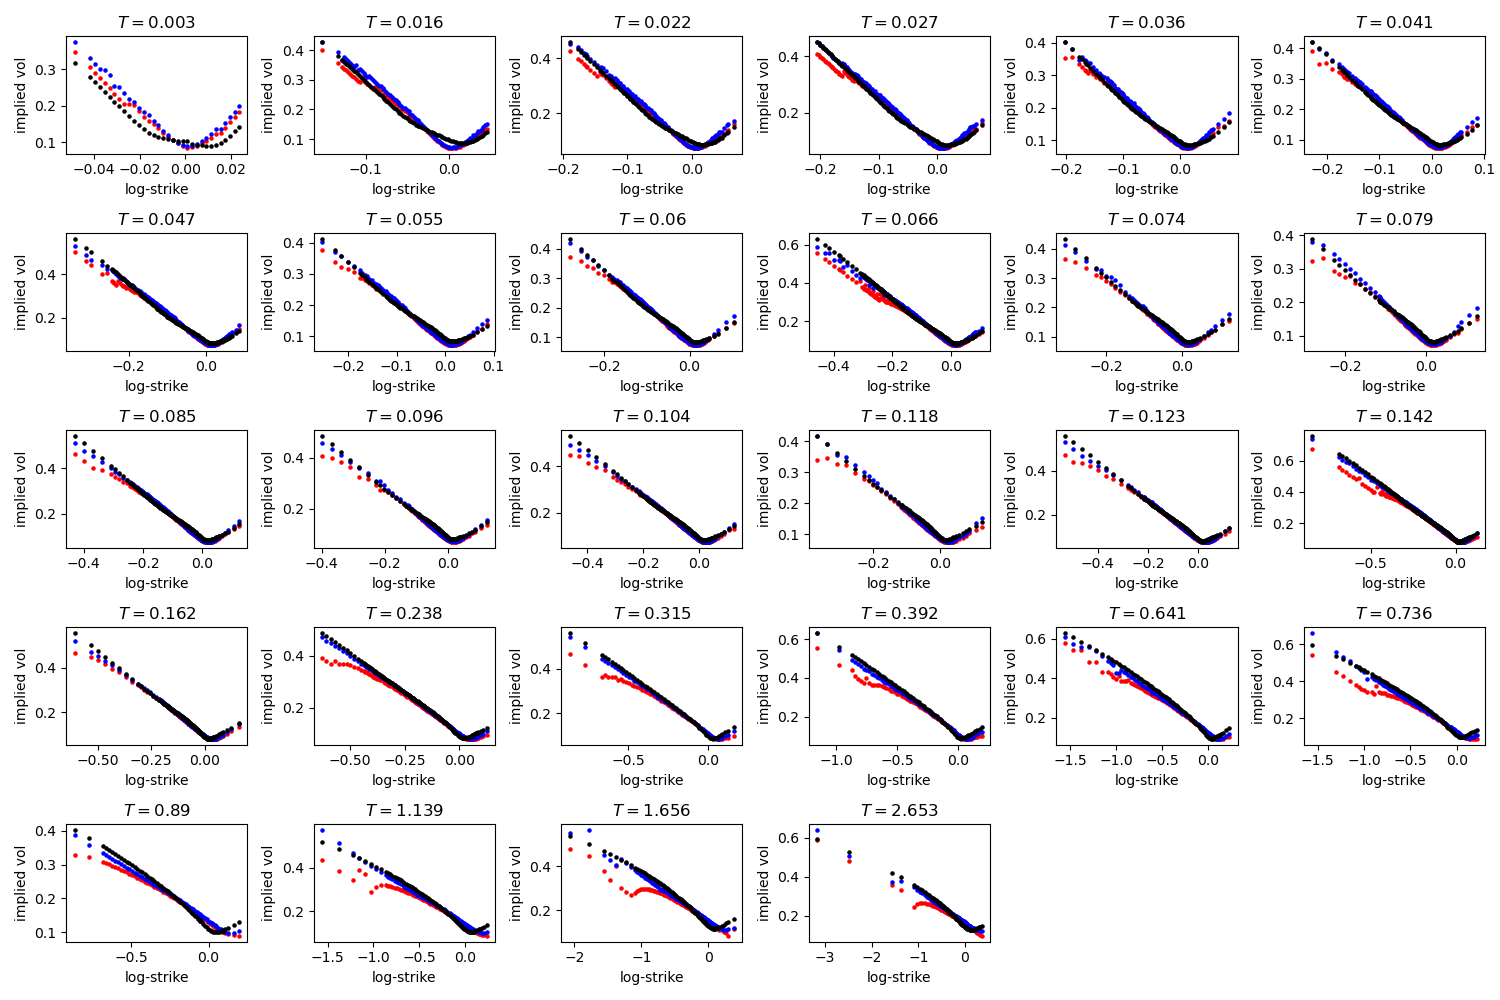
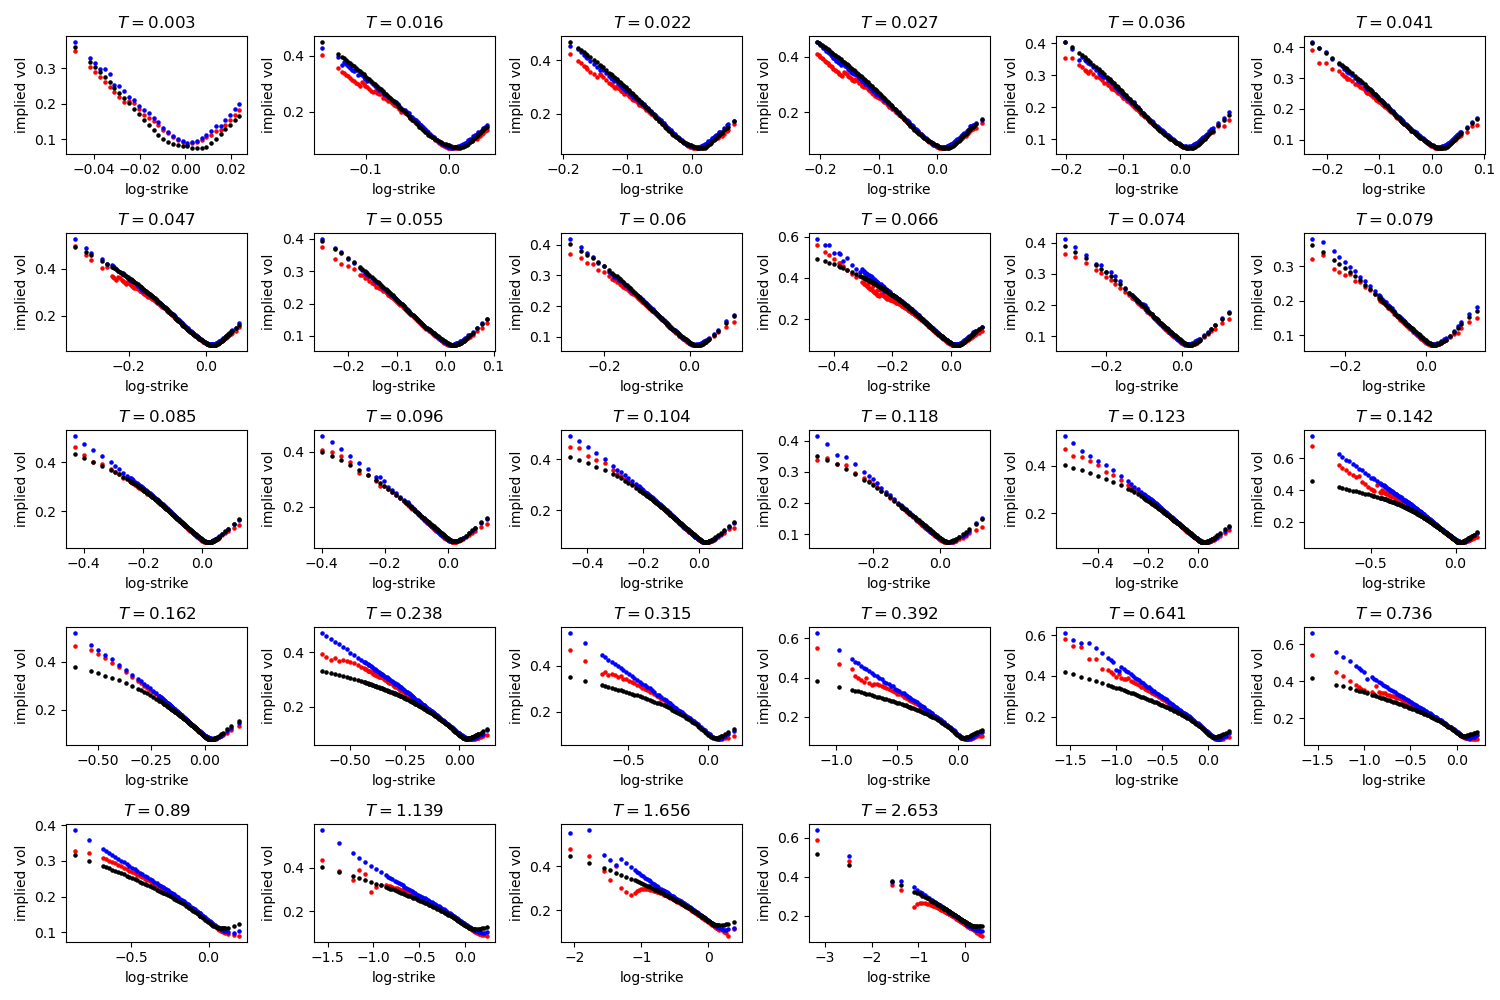
added cmt/ref

diff --git a/python-volcal/params.py b/python-volcal/params.py
@@ -1,4 +1,5 @@
 #### Heston ####################################################################
+# Ref: Bakshi, Cao & Chen (1997)
 paramsBCC = {"meanRevRate": 1.15, "correlation": -0.64, "volOfVol": 0.39, "meanVar": 0.04, "currentVar": 0.04}
 paramsBCCkey = list(paramsBCC.keys())
 paramsBCCval = list(paramsBCC.values())
@@ -11,14 +12,26 @@ paramsMERval = list(paramsMER.values())
 paramsMERbnd = ((0.01,1), (0,5), (-0.9,0.9), (0.01,2))
 # paramsMERbnd = ((0,1), (0,10), (-1,1), (0,10))
 #### VGamma ####################################################################
-paramsVG = {"vol": 0.095, "drift": -0.096, "timeChgVar": 0.288}
+# Ref: Madan, The Variance Gamma Process and Option Pricing
+# paramsVG = {"vol": 0.12, "drift": -0.14, "timeChgVar": 0.17}
+paramsVG = {"vol": 0.095, "drift": -0.096, "timeChgVar": 0.288} # converged
 paramsVGkey = list(paramsVG.keys())
 paramsVGval = list(paramsVG.values())
 paramsVGbnd = ((0.01,1), (-1,1), (0.01,1))
 #### SVJ #######################################################################
-paramsSVJ = {"meanRevRate": 0.704, "correlation": -0.530, "volOfVol": 0.872, "meanVar": 0.061, "currentVar": 0.01, "jumpInt": 0.006, "jumpMean": -0.900, "jumpSd": 0.821}
+# Ref: Gatheral, Volatility Workshop VW2.pdf
+# Empirical fits:
+#         lda  eta  rho   vbar  ldaJ alp   del
+# BCC SVJ 2.03 0.38 -0.57 0.04  0.59 -0.05 0.07
+# M   SVJ 1.0  0.8  -0.7  0.04  0.5  -0.15 0
+# DPS SVJ 3.99 0.27 -0.79 0.014 0.11 -0.12 0.15
+# JG  SVJ 0.54 0.3  -0.7  0.044 0.13 -0.12 0.10
+# paramsSVJ = {"meanRevRate": 0.704, "correlation": -0.530, "volOfVol": 0.872, "meanVar": 0.061, "currentVar": 0.01, "jumpInt": 0.006, "jumpMean": -0.900, "jumpSd": 0.821}
+# paramsSVJ = {"meanRevRate": 0.54, "correlation": -0.70, "volOfVol": 0.30, "meanVar": 0.04, "currentVar": 0.04, "jumpInt": 0.10, "jumpMean": -0.10, "jumpSd": 0.10}
+paramsSVJ = {'meanRevRate': 0.467, 'correlation': -0.587, 'volOfVol': 0.478, 'meanVar': 0.077, 'currentVar': 0.006, 'jumpInt': 0.137, 'jumpMean': -0.094, 'jumpSd': 0.158} # converged
 paramsSVJkey = list(paramsSVJ.keys())
 paramsSVJval = list(paramsSVJ.values())
-paramsSVJbnd = ((0.01,10), (-0.99,0), (0.01,1), (0.01,1), (0.01,1), (0,2), (-0.9,0.5), (0.01,2))
+# paramsSVJbnd = ((0.01,10), (-0.99,0), (0.01,1), (0.01,1), (0.01,1), (0,2), (-0.9,0.5), (0.01,2))
+paramsSVJbnd = ((0.01,5), (-0.99,0), (0.1,1), (0.005,1), (0.005,1), (0,2), (-0.5,0.5), (0.01,0.5))
 #### rHeston: Poor Man's Approx ################################################
 #### rHeston: Pade Approx ######################################################

diff --git a/python-volcal/pricer.py b/python-volcal/pricer.py
@@ -43,6 +43,7 @@ def BlackScholesImpliedVol(spotPrice, strike, maturity, riskFreeRate, priceMkt, 
             impVol1 += (price>=priceMkt)*(impVol-impVol1)
         return impVol
     elif method == "Chebychev": # Chebychev IV-interpolation
+        # Ref: Glau, The Chebyshev Method for the Implied Volatility
         # TO-DO
         pass
 
@@ -191,6 +192,8 @@ def MertonJumpCharFunc(vol, jumpInt, jumpMean, jumpSd, riskFreeRate=0):
 
 def VarianceGammaCharFunc(vol, drift, timeChgVar, riskFreeRate=0):
     # Characteristic function for Variance-Gamma model
+    # Xt = drift*gamma(t;1,timeChgVar) + vol*W(gamma(t;1,timeChgVar))
+    # Ref: Madan, The Variance Gamma Process and Option Pricing
     def charFunc(u, maturity):
         return np.exp(1j*u*(riskFreeRate+1/timeChgVar*np.log(1-(drift+vol**2/2)*timeChgVar))*maturity)*(1-1j*u*drift*timeChgVar+u**2*vol**2*timeChgVar/2)**(-maturity/timeChgVar)
     return charFunc
@@ -209,6 +212,11 @@ def SVJCharFunc(meanRevRate, correlation, volOfVol, meanVar, currentVar, jumpInt
         C = meanRevRate*(rm*maturity-2/volOfVol**2*np.log((1-g*np.exp(-d*maturity))/(1-g)))
         return np.exp(1j*u*riskFreeRate*maturity+C*meanVar+D*currentVar-1j*u*jumpInt*maturity*(np.exp(jumpMean+jumpSd**2/2)-1)+jumpInt*maturity*(np.exp(1j*u*jumpMean-u**2*jumpSd**2/2)-1))
     return charFunc
+
+def rHestonPoorMansCharFunc(meanRevRate, correlation, volOfVol, meanVar, currentVar, riskFreeRate=0):
+    # Characteristic function for rHeston model (poor man's crude approx)
+    # Ref: Gatheral, Roughening Heston
+    pass
 
 #### Calibration ###############################################################
 
@@ -247,8 +255,8 @@ def CalibrateModelToImpliedVol(logStrike, maturity, optionImpVol, model, params0
         impVolFunc = CharFuncImpliedVol(charFunc, optionType=optionType, FFT=True, formulaType=formulaType, **kwargs)
         impVol = np.concatenate([impVolFunc(logStrike[maturity==T], T) for T in np.unique(maturity)], axis=None)
         loss = np.sum(w*((impVol-bidVol)**2+(askVol-impVol)**2))
-        # print(params)
-        print(f"loss: {loss}")
+        print(f"params: {params}")
+        print(f"loss:   {loss}")
         return loss
     opt = minimize(objective, x0=params0, bounds=bounds)
     print("Optimization output:", opt, sep="\n")

diff --git a/python-volcal/main.py b/python-volcal/main.py
@@ -538,8 +538,8 @@ if __name__ == '__main__':
     # test_ImpVolFromMertonJumpIvCalibration()
     #### SVJ ####
     # test_CalibrateSVJModelToCallPricePrx()
-    # test_CalibrateSVJModelToImpVol()
-    # test_ImpVolFromSVJIvCalibration()
+    test_CalibrateSVJModelToImpVol()
+    test_ImpVolFromSVJIvCalibration()
     #### VGamma ####
-    test_CalibrateVGModelToImpVol()
-    test_ImpVolFromVGIvCalibration()
+    # test_CalibrateVGModelToImpVol()
+    # test_ImpVolFromVGIvCalibration()

diff --git a/TODO.md b/TODO.md
@@ -40,9 +40,10 @@
 * calibrate stochastic vol models (Merton/VGamma/Heston/rHeston)
     - ok, Heston
     - ok, Merton
+    - ok, VGamma
     - ok, SVJ
     - SVJJ
-    - VGamma
+    - CGMY
     - rHeston: poor man's approx, Riccati solver, Pade
 * fast Monte-Carlo for exotics pricing
 * back out local vol from IVS
